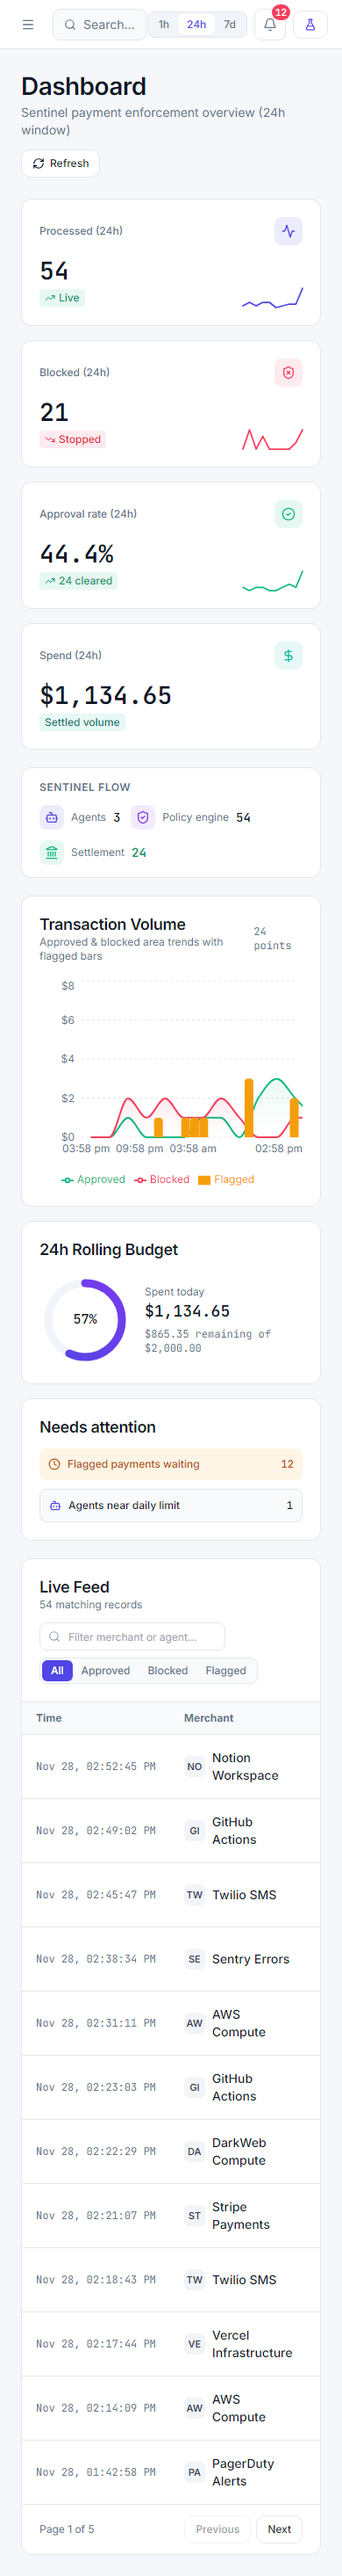
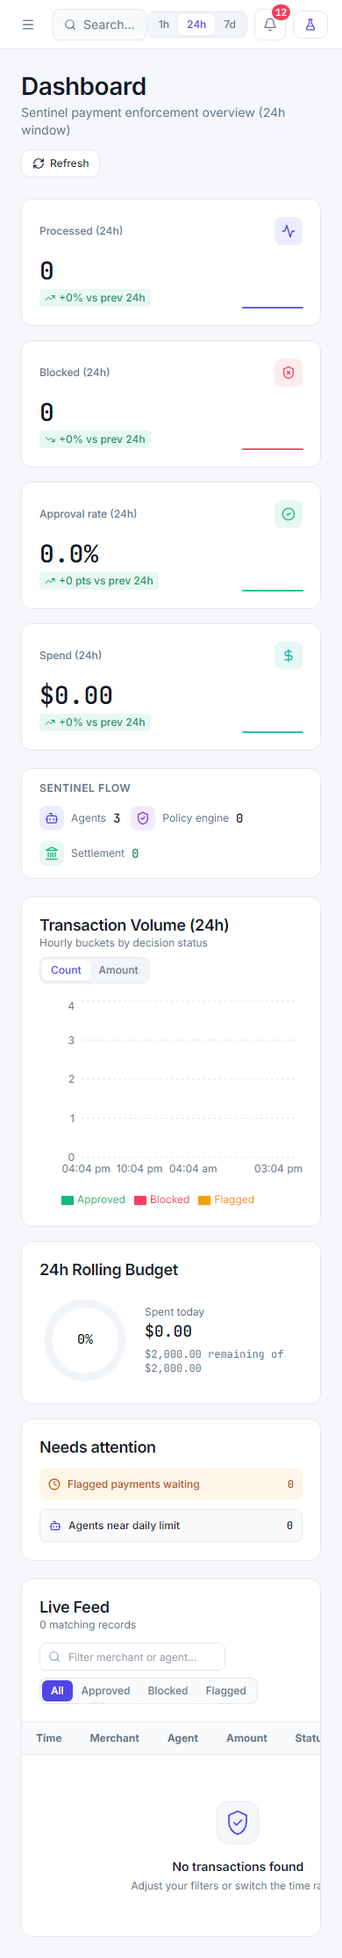
feat(ui-polish): Phase 2 - Dashboard real period deltas, hourly sparklines, stacked volume chart

diff --git a/frontend/src/pages/Dashboard.tsx b/frontend/src/pages/Dashboard.tsx
@@ -1,8 +1,7 @@
 import { useEffect, useState, useMemo, useCallback } from 'react';
 import { Link } from 'react-router-dom';
 import {
-  ComposedChart,
-  Area,
+  BarChart,
   Bar,
   XAxis,
   YAxis,
@@ -54,7 +53,15 @@ type Transaction = {
   createdAt?: string;
 };
 
-type ChartPoint = { time: string; approved: number; blocked: number; flagged: number };
+type ChartPoint = {
+  time: string;
+  approved: number;
+  blocked: number;
+  flagged: number;
+  approvedAmount?: number;
+  blockedAmount?: number;
+  flaggedAmount?: number;
+};
 type BudgetInfo = { spent: number; limit: number };
 type StatsData = {
   total: number;
@@ -64,6 +71,18 @@ type StatsData = {
   approvalRate: number;
   totalSpend: number;
   range: string;
+  deltas?: {
+    totalPct: number;
+    blockedPct: number;
+    approvalRatePts: number;
+    totalSpendPct: number;
+  };
+  sparklines?: {
+    total: number[];
+    blocked: number[];
+    approved: number[];
+    spend: number[];
+  };
 };
 
 function CountUpNumber({
@@ -241,6 +260,7 @@ export default function Dashboard() {
 
   const [statusFilter, setStatusFilter] = useState('ALL');
   const [searchQuery, setSearchQuery] = useState('');
+  const [chartMode, setChartMode] = useState<'count' | 'amount'>('count');
   const [page, setPage] = useState(1);
   const PAGE_SIZE = 12;
 
@@ -370,11 +390,19 @@ export default function Dashboard() {
                     <div className="text-[28px] leading-[34px] font-semibold text-[#0F172A] font-mono-num">
                       <CountUpNumber value={stats?.total ?? transactions.length} />
                     </div>
-                    <span className="inline-flex items-center gap-1 mt-1 px-1.5 py-0.5 rounded text-xs font-medium bg-[#10B981]/10 text-[#059669]">
-                      <TrendingUp className="w-3 h-3" /> Live
+                    <span
+                      className={`inline-flex items-center gap-1 mt-1 px-1.5 py-0.5 rounded text-xs font-medium ${
+                        (stats?.deltas?.totalPct ?? 0) >= 0
+                          ? 'bg-[#10B981]/10 text-[#059669]'
+                          : 'bg-[#F43F5E]/10 text-[#E11D48]'
+                      }`}
+                    >
+                      {(stats?.deltas?.totalPct ?? 0) >= 0 ? <TrendingUp className="w-3 h-3" /> : <TrendingDown className="w-3 h-3" />}
+                      {(stats?.deltas?.totalPct ?? 0) >= 0 ? '+' : ''}
+                      {stats?.deltas?.totalPct ?? 0}% vs prev {timeRange}
                     </span>
                   </div>
-                  <Sparkline data={sparkTotal} color="#4F46E5" />
+                  <Sparkline data={stats?.sparklines?.total ?? sparkTotal} color="#4F46E5" />
                 </div>
               </Card>
 
@@ -390,11 +418,19 @@ export default function Dashboard() {
                     <div className="text-[28px] leading-[34px] font-semibold text-[#0F172A] font-mono-num">
                       <CountUpNumber value={stats?.blocked ?? 0} />
                     </div>
-                    <span className="inline-flex items-center gap-1 mt-1 px-1.5 py-0.5 rounded text-xs font-medium bg-[#F43F5E]/10 text-[#E11D48]">
-                      <TrendingDown className="w-3 h-3" /> Stopped
+                    <span
+                      className={`inline-flex items-center gap-1 mt-1 px-1.5 py-0.5 rounded text-xs font-medium ${
+                        (stats?.deltas?.blockedPct ?? 0) <= 0
+                          ? 'bg-[#10B981]/10 text-[#059669]'
+                          : 'bg-[#F43F5E]/10 text-[#E11D48]'
+                      }`}
+                    >
+                      {(stats?.deltas?.blockedPct ?? 0) <= 0 ? <TrendingDown className="w-3 h-3" /> : <TrendingUp className="w-3 h-3" />}
+                      {(stats?.deltas?.blockedPct ?? 0) >= 0 ? '+' : ''}
+                      {stats?.deltas?.blockedPct ?? 0}% vs prev {timeRange}
                     </span>
                   </div>
-                  <Sparkline data={sparkBlocked} color="#F43F5E" />
+                  <Sparkline data={stats?.sparklines?.blocked ?? sparkBlocked} color="#F43F5E" />
                 </div>
               </Card>
 
@@ -415,11 +451,19 @@ export default function Dashboard() {
                     <div className="text-[28px] leading-[34px] font-semibold text-[#0F172A] font-mono-num">
                       <CountUpNumber value={stats?.approvalRate ?? 0} decimals={1} suffix="%" />
                     </div>
-                    <span className="inline-flex items-center gap-1 mt-1 px-1.5 py-0.5 rounded text-xs font-medium bg-[#10B981]/10 text-[#059669]">
-                      <TrendingUp className="w-3 h-3" /> {stats?.approved ?? 0} cleared
+                    <span
+                      className={`inline-flex items-center gap-1 mt-1 px-1.5 py-0.5 rounded text-xs font-medium ${
+                        (stats?.deltas?.approvalRatePts ?? 0) >= 0
+                          ? 'bg-[#10B981]/10 text-[#059669]'
+                          : 'bg-[#F43F5E]/10 text-[#E11D48]'
+                      }`}
+                    >
+                      {(stats?.deltas?.approvalRatePts ?? 0) >= 0 ? <TrendingUp className="w-3 h-3" /> : <TrendingDown className="w-3 h-3" />}
+                      {(stats?.deltas?.approvalRatePts ?? 0) >= 0 ? '+' : ''}
+                      {stats?.deltas?.approvalRatePts ?? 0} pts vs prev {timeRange}
                     </span>
                   </div>
-                  <Sparkline data={sparkApproved} color="#10B981" />
+                  <Sparkline data={stats?.sparklines?.approved ?? sparkApproved} color="#10B981" />
                 </div>
               </Card>
 
@@ -435,10 +479,19 @@ export default function Dashboard() {
                     <div className="text-[28px] leading-[34px] font-semibold text-[#0F172A] font-mono-num">
                       <CountUpNumber value={stats?.totalSpend ?? 0} decimals={2} prefix="$" />
                     </div>
-                    <span className="inline-flex items-center gap-1 mt-1 px-1.5 py-0.5 rounded text-xs font-medium bg-[#14B8A6]/10 text-[#0F766E]">
-                      Settled volume
+                    <span
+                      className={`inline-flex items-center gap-1 mt-1 px-1.5 py-0.5 rounded text-xs font-medium ${
+                        (stats?.deltas?.totalSpendPct ?? 0) >= 0
+                          ? 'bg-[#10B981]/10 text-[#059669]'
+                          : 'bg-[#F43F5E]/10 text-[#E11D48]'
+                      }`}
+                    >
+                      {(stats?.deltas?.totalSpendPct ?? 0) >= 0 ? <TrendingUp className="w-3 h-3" /> : <TrendingDown className="w-3 h-3" />}
+                      {(stats?.deltas?.totalSpendPct ?? 0) >= 0 ? '+' : ''}
+                      {stats?.deltas?.totalSpendPct ?? 0}% vs prev {timeRange}
                     </span>
                   </div>
+                  <Sparkline data={stats?.sparklines?.spend ?? []} color="#14B8A6" />
                 </div>
               </Card>
             </>
@@ -482,14 +535,31 @@ export default function Dashboard() {
       <div className="grid grid-cols-1 lg:grid-cols-3 gap-4">
         <ErrorBoundary label="Volume chart">
           <Card className="lg:col-span-2">
-            <div className="flex items-center justify-between mb-4">
+            <div className="flex items-center justify-between gap-2 mb-4 flex-wrap">
               <div>
                 <h2 className="text-[18px] leading-[24px] font-semibold text-[#0F172A]">
-                  Transaction Volume
+                  Transaction Volume ({timeRange})
                 </h2>
-                <p className="text-xs text-[#64748B]">Approved & blocked area trends with flagged bars</p>
+                <p className="text-xs text-[#64748B]">Hourly buckets by decision status</p>
               </div>
-              <span className="text-xs text-[#64748B] font-mono-num">{chartData.length} points</span>
+              <div className="inline-flex items-center bg-[#F1F5F9] p-0.5 rounded-[8px] border border-[#E5E7EB]">
+                <button
+                  onClick={() => setChartMode('count')}
+                  className={`px-2.5 py-1 text-xs font-medium rounded-[6px] transition-colors cursor-pointer ${
+                    chartMode === 'count' ? 'bg-white text-[#4F46E5] shadow-sm' : 'text-[#64748B] hover:text-[#0F172A]'
+                  }`}
+                >
+                  Count
+                </button>
+                <button
+                  onClick={() => setChartMode('amount')}
+                  className={`px-2.5 py-1 text-xs font-medium rounded-[6px] transition-colors cursor-pointer ${
+                    chartMode === 'amount' ? 'bg-white text-[#4F46E5] shadow-sm' : 'text-[#64748B] hover:text-[#0F172A]'
+                  }`}
+                >
+                  Amount
+                </button>
+              </div>
             </div>
             {loading ? (
               <Skeleton className="h-60 w-full" />
@@ -501,17 +571,7 @@ export default function Dashboard() {
             ) : (
               <div className="h-60 w-full">
                 <ResponsiveContainer width="100%" height="100%">
-                  <ComposedChart data={chartData} margin={{ top: 4, right: 8, left: -12, bottom: 0 }}>
-                    <defs>
-                      <linearGradient id="gradApproved" x1="0" y1="0" x2="0" y2="1">
-                        <stop offset="5%" stopColor="#10B981" stopOpacity={0.28} />
-                        <stop offset="95%" stopColor="#10B981" stopOpacity={0} />
-                      </linearGradient>
-                      <linearGradient id="gradBlocked" x1="0" y1="0" x2="0" y2="1">
-                        <stop offset="5%" stopColor="#F43F5E" stopOpacity={0.24} />
-                        <stop offset="95%" stopColor="#F43F5E" stopOpacity={0} />
-                      </linearGradient>
-                    </defs>
+                  <BarChart data={chartData} margin={{ top: 4, right: 8, left: -12, bottom: 0 }}>
                     <CartesianGrid strokeDasharray="3 3" vertical={false} stroke="#E5E7EB" />
                     <XAxis
                       dataKey="time"
@@ -524,7 +584,8 @@ export default function Dashboard() {
                       tick={{ fontSize: 12, fill: '#64748B' }}
                       axisLine={false}
                       tickLine={false}
-                      tickFormatter={v => `$${v}`}
+                      allowDecimals={false}
+                      tickFormatter={v => (chartMode === 'amount' ? `$${v}` : `${v}`)}
                     />
                     <Tooltip
                       contentStyle={{
@@ -532,27 +593,32 @@ export default function Dashboard() {
                         border: '1px solid #E5E7EB',
                         fontSize: 12,
                       }}
-                      formatter={(val: any) => [formatCurrency(Number(val)), undefined]}
+                      formatter={(val: any, name: any) => [
+                        chartMode === 'amount' ? formatCurrency(Number(val)) : `${val} tx`,
+                        name,
+                      ]}
                     />
                     <Legend wrapperStyle={{ fontSize: 12, paddingTop: 8 }} />
-                    <Area
-                      type="monotone"
-                      dataKey="approved"
-                      stroke="#10B981"
-                      strokeWidth={2}
-                      fill="url(#gradApproved)"
+                    <Bar
+                      dataKey={chartMode === 'amount' ? 'approvedAmount' : 'approved'}
                       name="Approved"
+                      stackId="a"
+                      fill="#10B981"
                     />
-                    <Area
-                      type="monotone"
-                      dataKey="blocked"
-                      stroke="#F43F5E"
-                      strokeWidth={2}
-                      fill="url(#gradBlocked)"
+                    <Bar
+                      dataKey={chartMode === 'amount' ? 'blockedAmount' : 'blocked'}
                       name="Blocked"
+                      stackId="a"
+                      fill="#F43F5E"
                     />
-                    <Bar dataKey="flagged" fill="#F59E0B" name="Flagged" radius={[4, 4, 0, 0]} barSize={10} />
-                  </ComposedChart>
+                    <Bar
+                      dataKey={chartMode === 'amount' ? 'flaggedAmount' : 'flagged'}
+                      name="Flagged"
+                      stackId="a"
+                      fill="#F59E0B"
+                      radius={[3, 3, 0, 0]}
+                    />
+                  </BarChart>
                 </ResponsiveContainer>
               </div>
             )}

diff --git a/frontend/src/components/Layout.tsx b/frontend/src/components/Layout.tsx
@@ -78,19 +78,6 @@ function SentriPayLogoMark({ className = 'w-7 h-7' }: { className?: string }) {
   );
 }
 
-const ROUTE_TITLES: Record<string, string> = {
-  '/dashboard': 'Dashboard',
-  '/transactions': 'Transactions',
-  '/approvals': 'Approvals',
-  '/agents': 'Agents',
-  '/policies': 'Policies',
-  '/merchants': 'Merchants',
-  '/analytics': 'Analytics',
-  '/alerts': 'Alerts',
-  '/integrate': 'Integrate',
-  '/settings': 'Settings',
-};
-
 export default function Layout({ children, onOpenPalette }: LayoutProps) {
   const location = useLocation();
   const toast = useToast();
@@ -104,10 +91,6 @@ export default function Layout({ children, onOpenPalette }: LayoutProps) {
   const [resetting, setResetting] = useState(false);
   const [notifOpen, setNotifOpen] = useState(false);
   const [recentAlerts, setRecentAlerts] = useState<any[]>([]);
-
-  const pageTitle =
-    ROUTE_TITLES[location.pathname] ||
-    (location.pathname.startsWith('/agents/') ? 'Agent Detail' : 'SentriPay');
 
   const fetchPending = async () => {
     try {
@@ -299,10 +282,6 @@ export default function Layout({ children, onOpenPalette }: LayoutProps) {
             >
               <Menu className="w-4 h-4" />
             </button>
-
-            <span className="hidden md:inline-block text-sm font-semibold text-[#0F172A] truncate">
-              {pageTitle}
-            </span>
 
             <button
               onClick={onOpenPalette}
